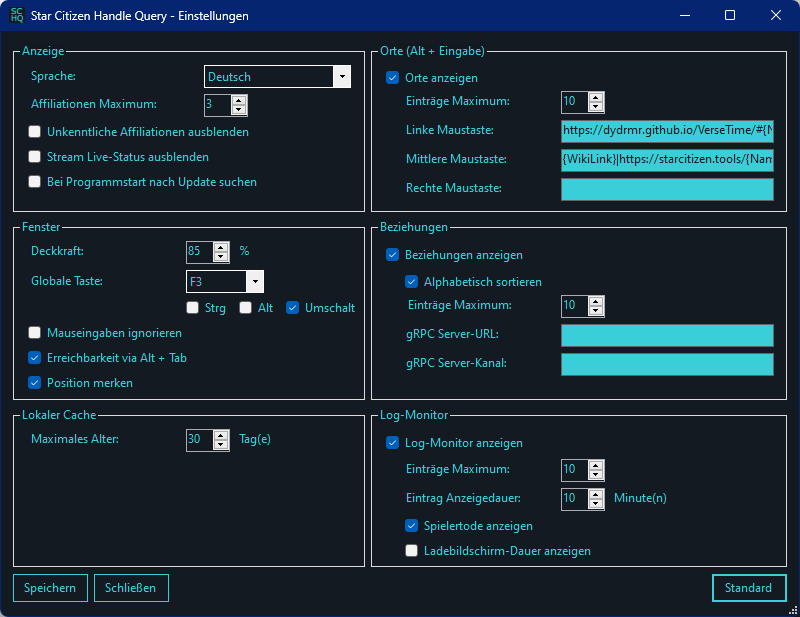
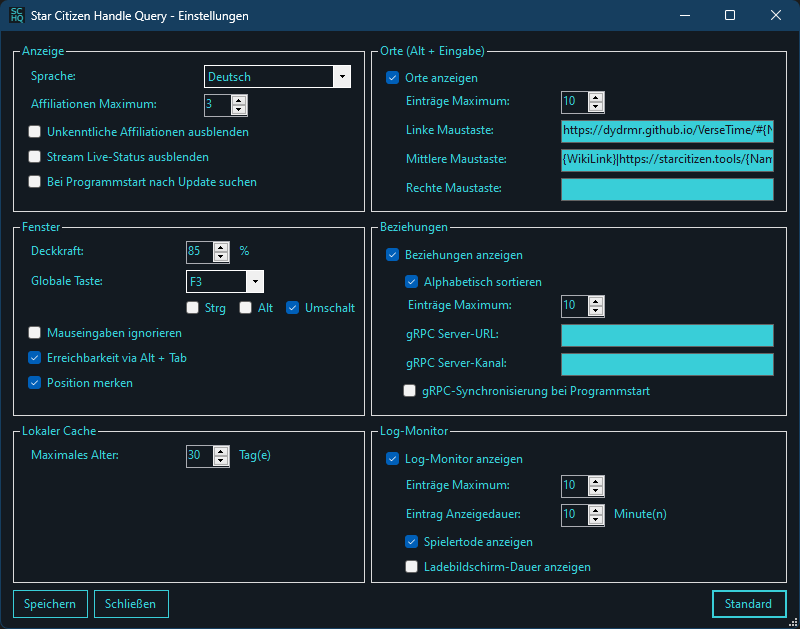
README Update

diff --git a/README.md b/README.md
@@ -53,6 +53,7 @@ https://discord.com/invite/WmzNY3mCm6
   - __Einträge Maximum:__ Angabe, wie viele Einträge maximal auf dem Beziehungen-Fenster dargestellt werden sollen (es werden unendlich viele Einträge im lokalen Cache gespeichert)
   - __gRPC Server-URL:__ Hier kann die vollständige URL eines gRPC-Servers (`SCHQ_Server`) angegeben werden, um die Beziehungen mit anderen Benutzern zu synchronisieren
   - __gRPC Server-Kanal:__ Hier kann der zu verwendende Kanal angegeben werden, welcher für den gRPC-Server verwendet werden soll. Alle Benutzer, die den gleichen Kanal verwenden, synchronisieren die Beziehungen untereinander.
+  - __gRPC-Synchronisierung bei Programmstart:__ Angabe, ob beim Programmstart die Synchronisierung automatisch gestartet werden soll
 ### Log-Monitor
 - __Log-Monitor anzeigen:__ Angabe, ob der Log-Monitor angezeigt werden soll
   - __Einträge Maximum:__ Angabe, wie viele Einträge maximal im Log-Monitor angezeigt werden sollen
@@ -154,7 +155,6 @@ Das Fenster enthält folgende Informationen:
     - `Kreuz`: Der Spieler ist gestorben und es wurde ein Leichnam erstellt
     - `Totenkopf mit Zielmarkierung`: Der Spieler ist gestorben und wurde zur Rehabilitation nach Klescher geschickt
     - `Information`: Es handelt sich um einen Info-Eintrag (z.B.: Ladezeit im Ladebildschirm)
-    - `Zahlenrad` (rot): Es werden zur Zeit von Star Citizen Shader kompiliert - Diese Info verschwindet, wenn fünf Sekunden lang keine weiteren Shader kompiliert werden
   - Rechts daneben werden Uhrzeit und weitere Informationen, welche zum Log-Typ passen, angezeigt
   - Wenn der Spieler in einer Zone gestorben ist, in der es ein lokales Inventar gibt, wird ganz rechts zusätzlich ein `Ressourcen`-Symbol dargestellt.
   - Ein Mauslinksklick auf eine der genannten Informationen trägt den Handle des Spielers in das Hauptfenster ein und startet direkt eine Handle-Abfrage. Wird dabei die `Strg`-Taste gedrückt gehalten, wird ein Auslesen der Handle-Informationen von der RSI-Webseite erzwungen.
